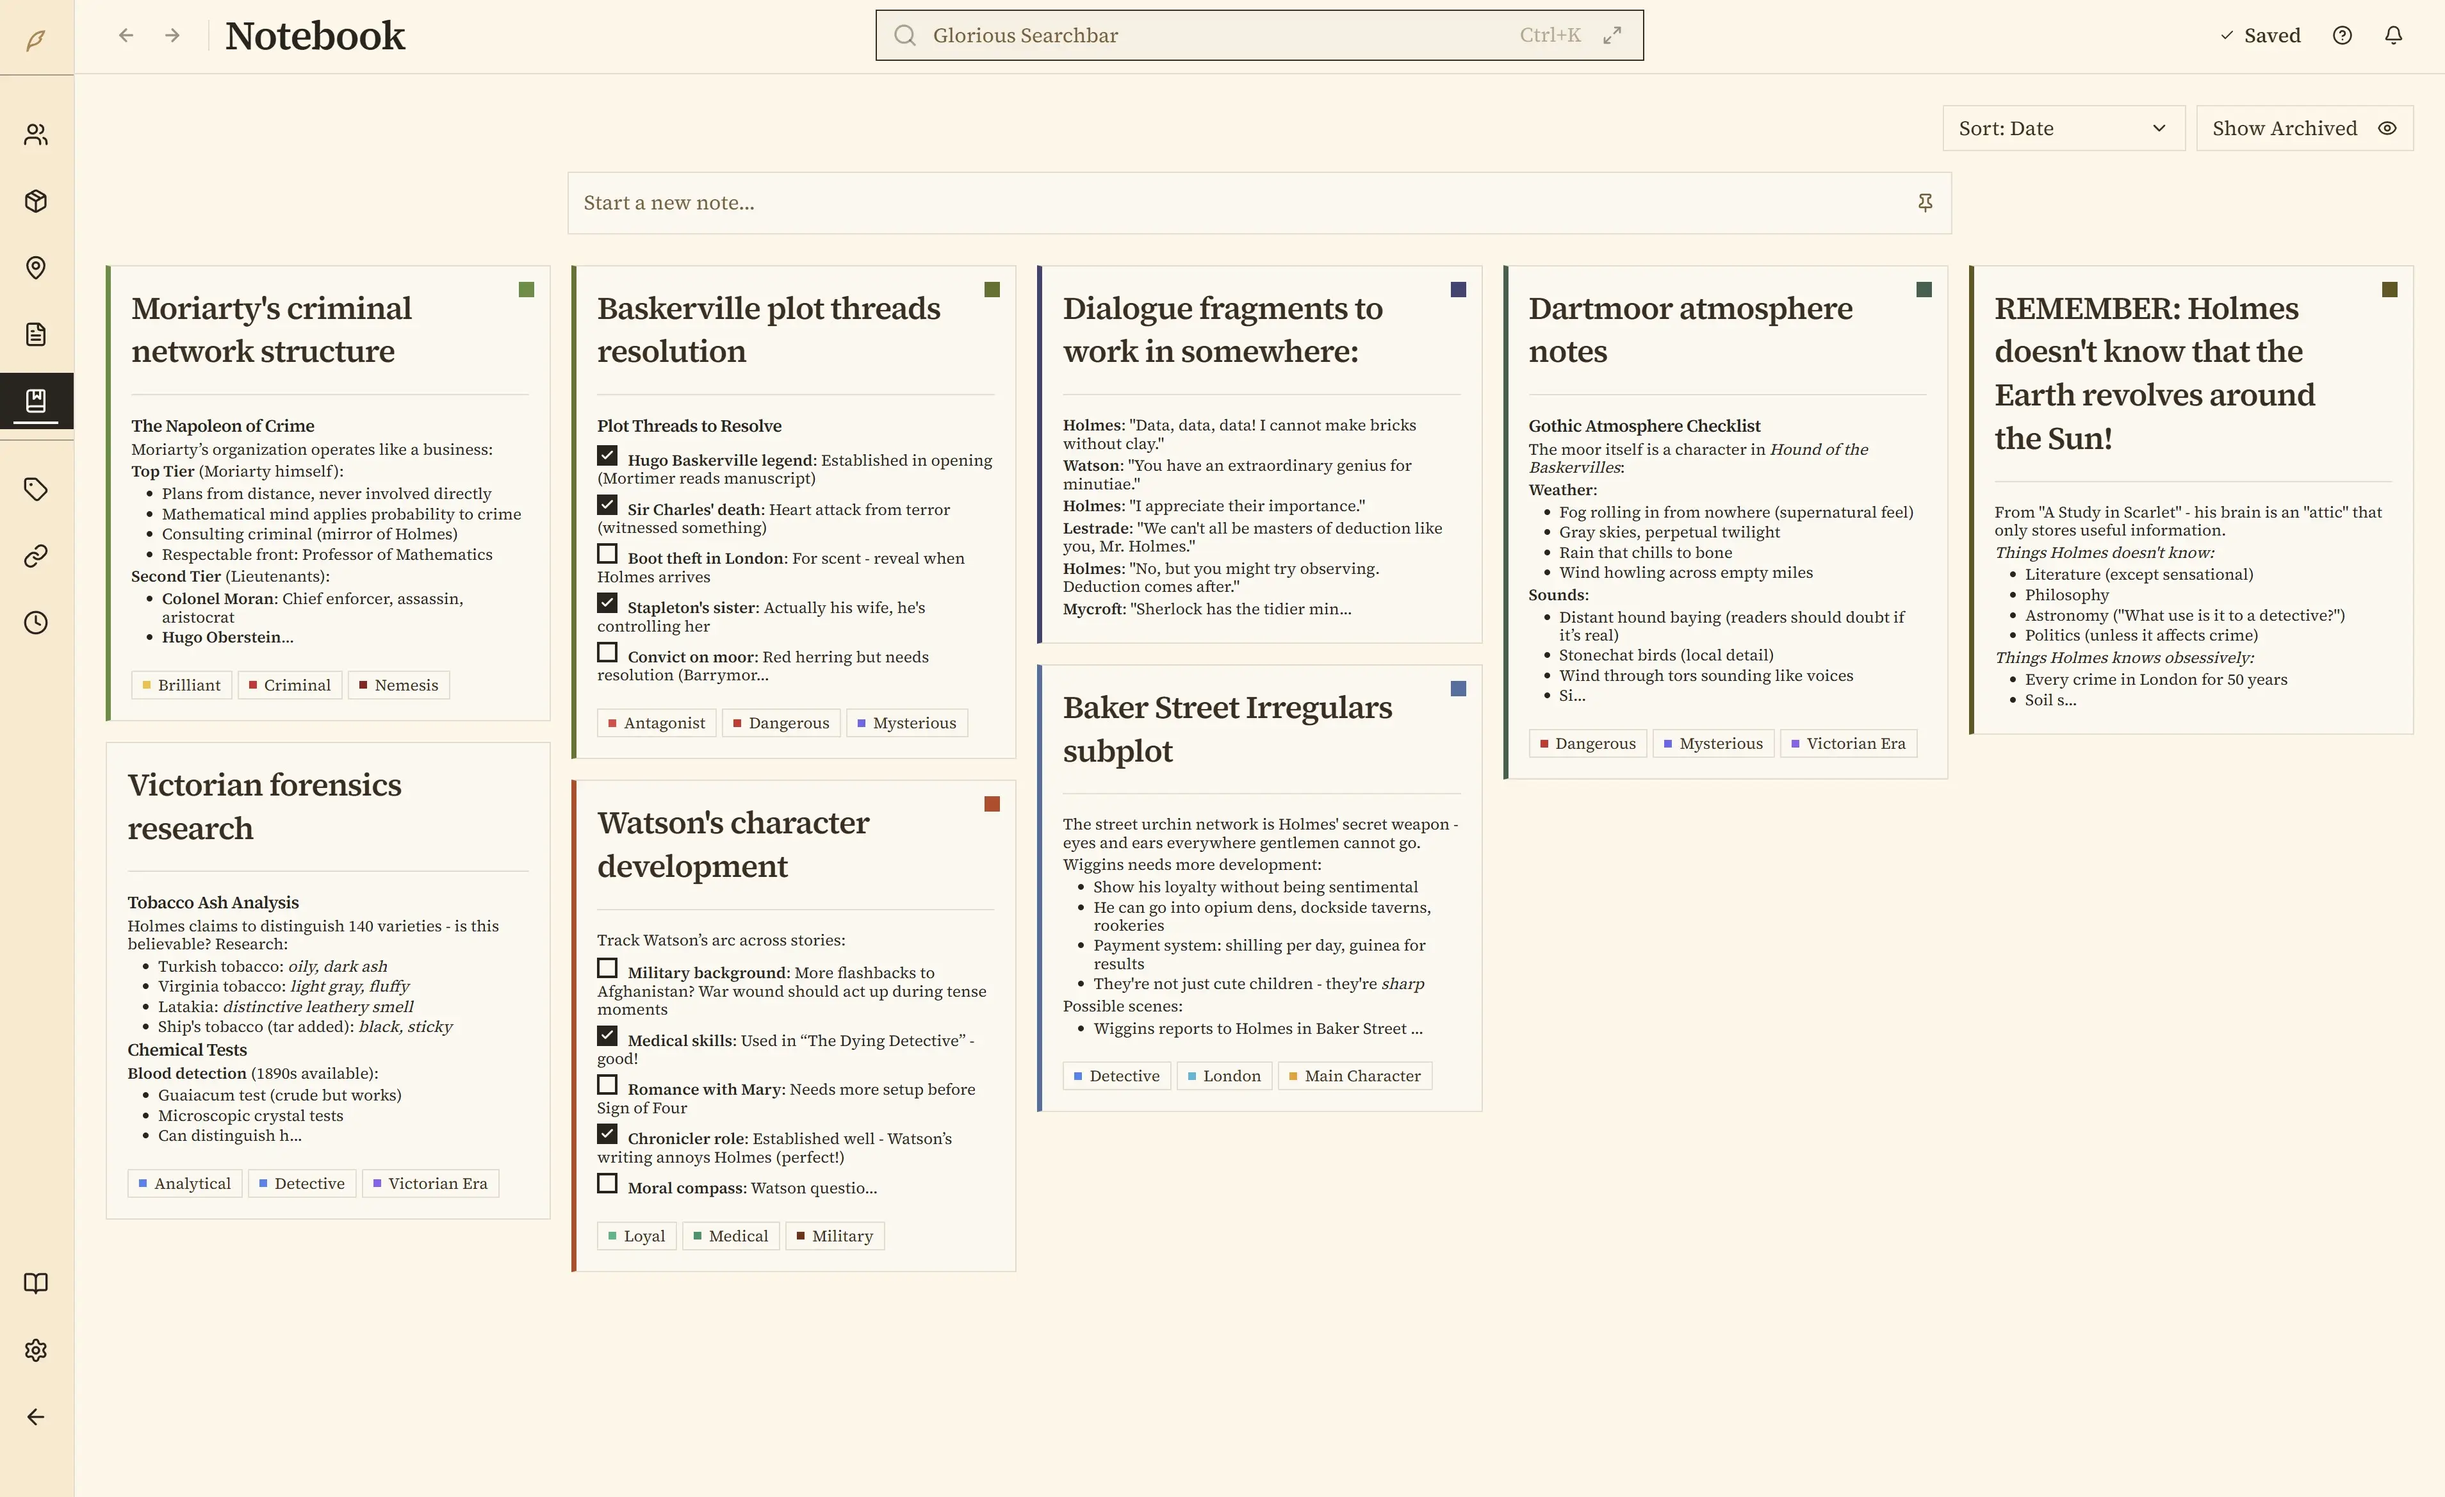
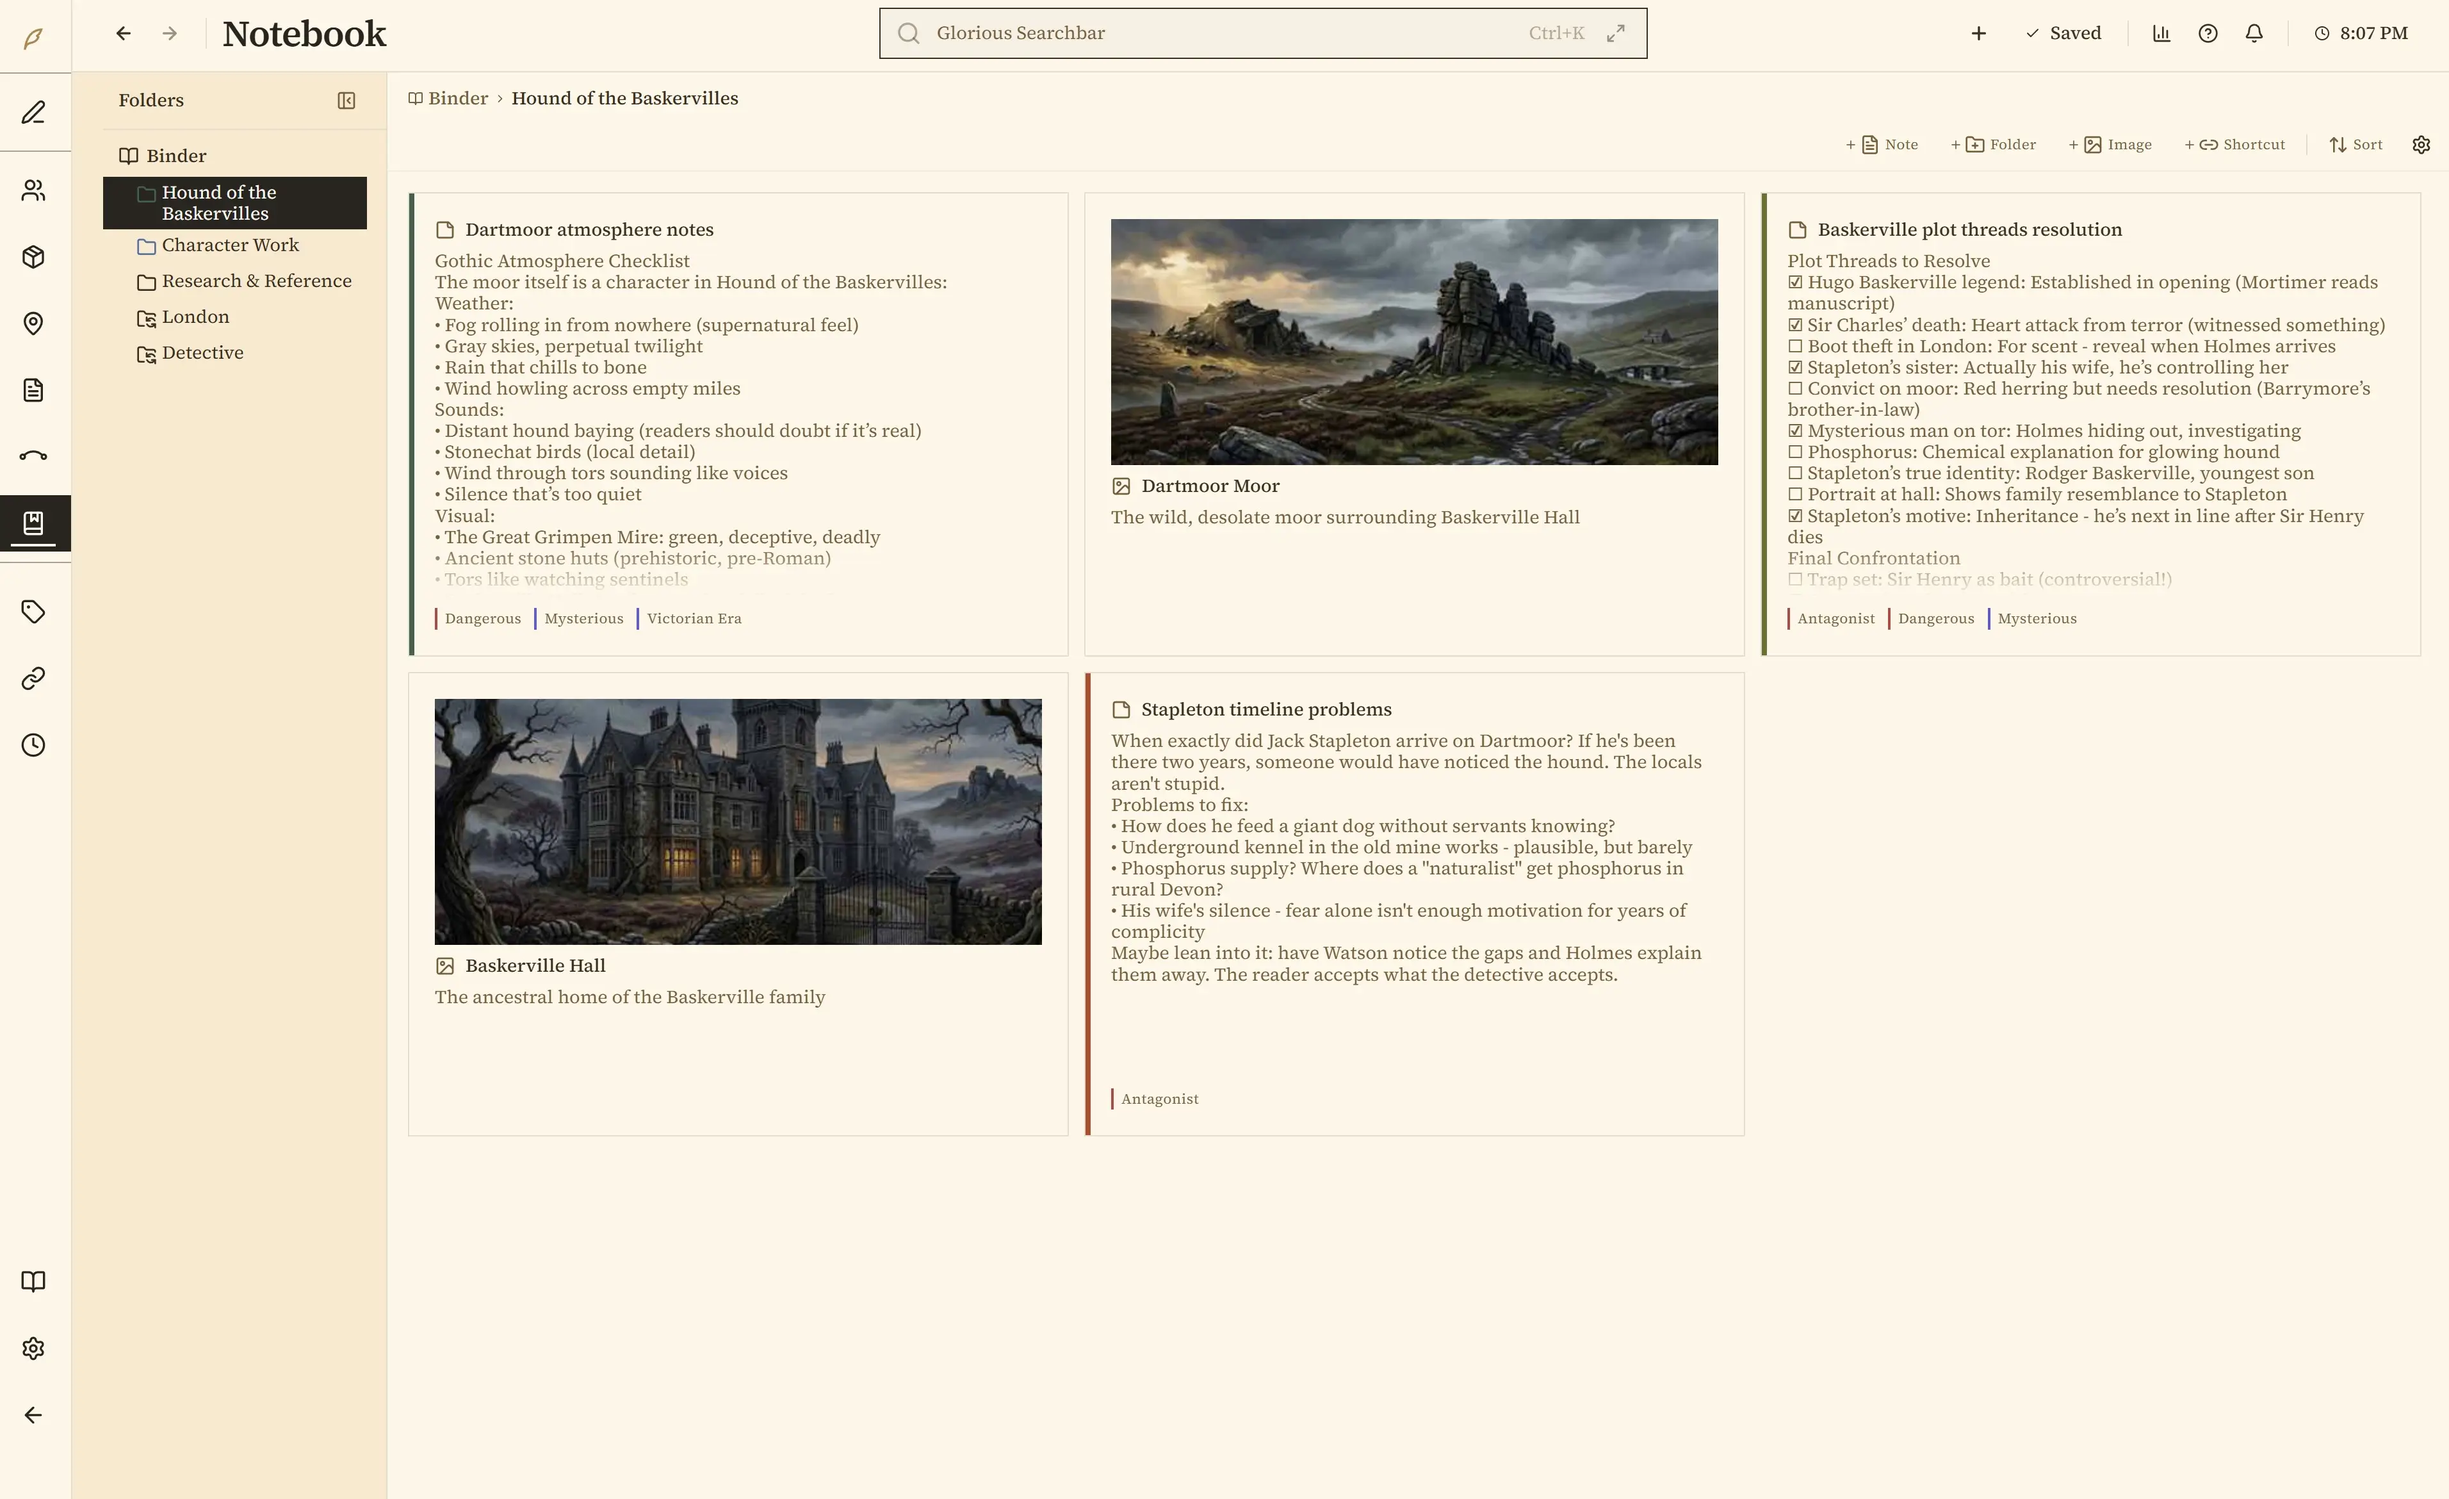
Update Notebook screenshot and copy

diff --git a/index.html b/index.html
@@ -839,13 +839,13 @@
         <button type="button" class="quick-feature card-hover" data-animate="fade-up"
                 data-lightbox="notes"
                 data-lightbox-title="Notes for Everything Else"
-                data-lightbox-desc="Plot threads to resolve. Dialogue snippets to use. Research to remember. Worldbuilding details you'll need later. Your Notebook holds all the ideas that don't fit elsewhere; formatted, tagged, and searchable alongside everything else."
+                data-lightbox-desc="Plot threads to resolve. Dialogue snippets to use. Research to remember. Worldbuilding details you'll need later. Organize everything into folders, embed images, and tag your notes so you can pull related ideas together in one click. Your Notebook is a complete workspace for all the thinking that happens between the lines."
                 data-lightbox-image="images/Notebook.webp">
           <div class="quick-feature__image-wrapper">
             <img src="images/Notebook.webp" alt="Notebook with formatted notes and tags" class="quick-feature__image quick-feature__image--notebook-zoom" loading="lazy">
           </div>
           <h3 class="quick-feature__title">Notes, for everything else</h3>
-          <p class="quick-feature__desc font-body-sm">Write down your scattered ideas, create checklists, link to other pages</p>
+          <p class="quick-feature__desc font-body-sm">Organize your research into folders, embed images, tag your notes, and link to anything in your world.</p>
         </button>
 
         <!-- 7. Timeline View -->
